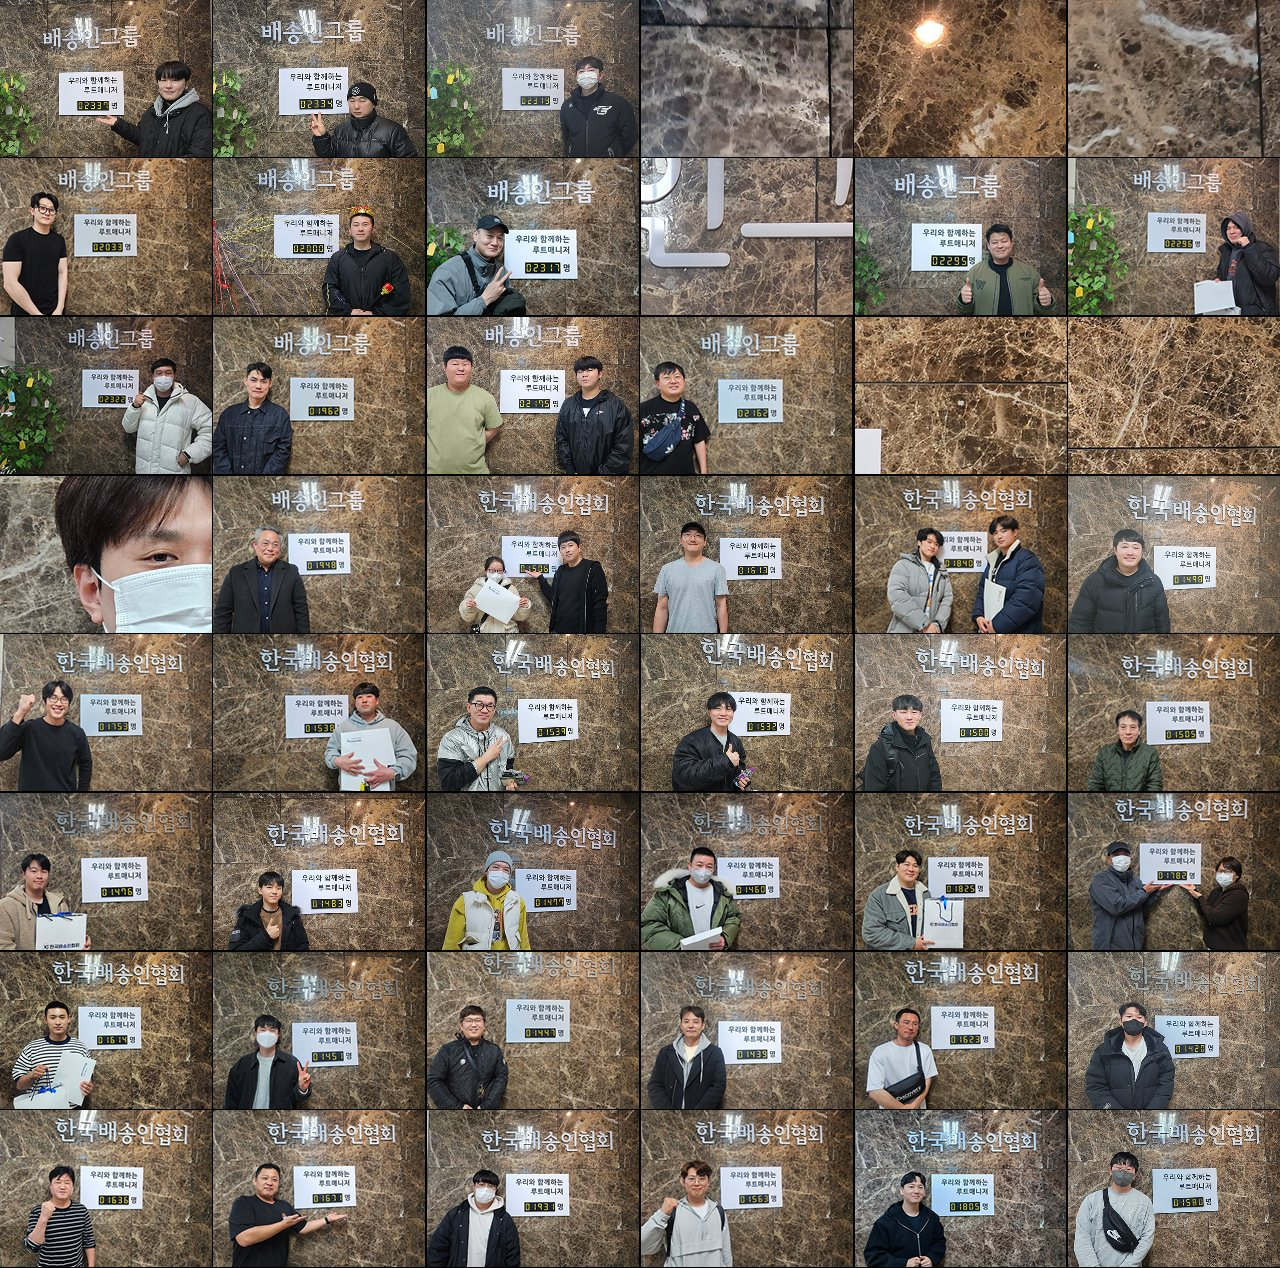
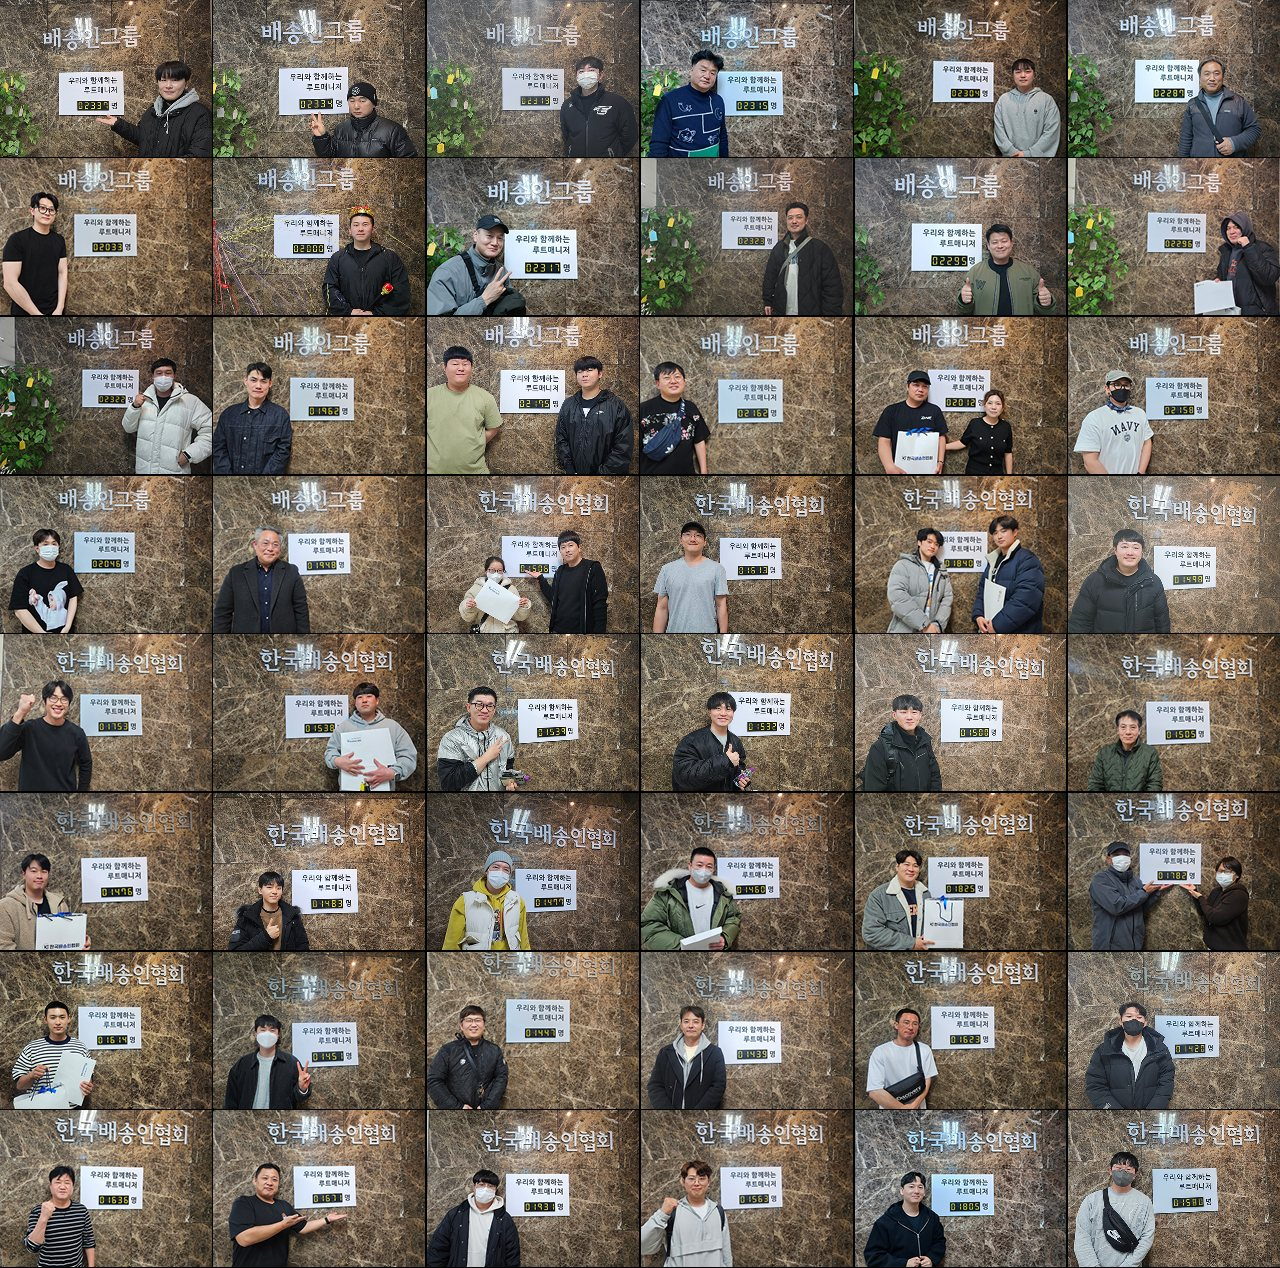
회원 사진 원본 교체, 전체가 보이는 정사각 비율로 변경
Claude-Session: https://claude.ai/code/session_012jEaXiubr4SmAcvL4Vnu9D

Changed region(s): [[0.5, 0.0, 1.0, 0.3998], [0.0, 0.3691, 0.1875, 0.5229]]

diff --git a/css/style.css b/css/style.css
@@ -541,16 +541,15 @@ q{quotes:"“" "”"}
 .pgrid h4{margin:8px 0 0;font-size:19px}
 .more .pgrid article{padding:16px 12px}
 
-/* v22: 회원 사진 배경 - 흰색에서 시작해 남색으로 */
+/* v23: 회원 사진 - 전체 사진이 다 보이는 정사각 비율, 흰색 → 사진 → 남색 */
 #company{padding-top:0}
-#company .members-photo{height:460px}
-#company .members-photo img{width:100%;height:100%;object-fit:cover;object-position:50% 65%;filter:none}
-#company .members-photo::after{background:linear-gradient(180deg,#fff 0%,rgba(255,255,255,.55) 14%,rgba(255,255,255,0) 30%,rgba(16,36,58,0) 58%,rgba(16,36,58,.85) 86%,var(--navy) 100%)}
-#company .wrap{margin-top:-60px}
-@media (min-width:900px){
-  #company .members-photo{height:640px}
-  #company .members-photo img{object-position:50% 60%}
-  #company .wrap{margin-top:-110px}
+#company .members-photo{height:auto;overflow:hidden;background:linear-gradient(180deg,#fff 0%,#fff 14%,var(--navy) 62%)}
+#company .members-photo img{display:block;width:100%;max-width:760px;height:auto;aspect-ratio:1280/1268;margin:0 auto;object-fit:cover;filter:none}
+#company .members-photo::after{background:linear-gradient(180deg,#fff 0%,rgba(255,255,255,.92) 8%,rgba(255,255,255,0) 32%,rgba(16,36,58,0) 55%,rgba(16,36,58,.8) 82%,var(--navy) 100%)}
+#company .wrap{margin-top:-90px}
+@media (min-width:760px){
+  #company .members-photo img{-webkit-mask-image:linear-gradient(90deg,transparent,#000 14%,#000 86%,transparent);mask-image:linear-gradient(90deg,transparent,#000 22%,#000 78%,transparent)}
+  #company .wrap{margin-top:-130px}
 }
 
 /* PC에서 체크 아이콘과 글자가 겹치지 않게 */

diff --git a/index.html b/index.html
@@ -12,7 +12,7 @@
 <meta property="og:image" content="img/hero-interview.jpg">
 <link rel="preconnect" href="https://cdn.jsdelivr.net" crossorigin>
 <link rel="stylesheet" href="https://cdn.jsdelivr.net/gh/orioncactus/pretendard@v1.3.9/dist/web/variable/pretendardvariable-dynamic-subset.min.css">
-<link rel="stylesheet" href="css/style.css?v=22">
+<link rel="stylesheet" href="css/style.css?v=23">
 </head>
 <body>
 
@@ -629,7 +629,7 @@
 
 <a class="dock" id="dock" href="#apply">가구설치기사 1차 지원하기</a>
 
-<script src="js/regions.js?v=22"></script>
-<script src="js/main.js?v=22"></script>
+<script src="js/regions.js?v=23"></script>
+<script src="js/main.js?v=23"></script>
 </body>
 </html>
